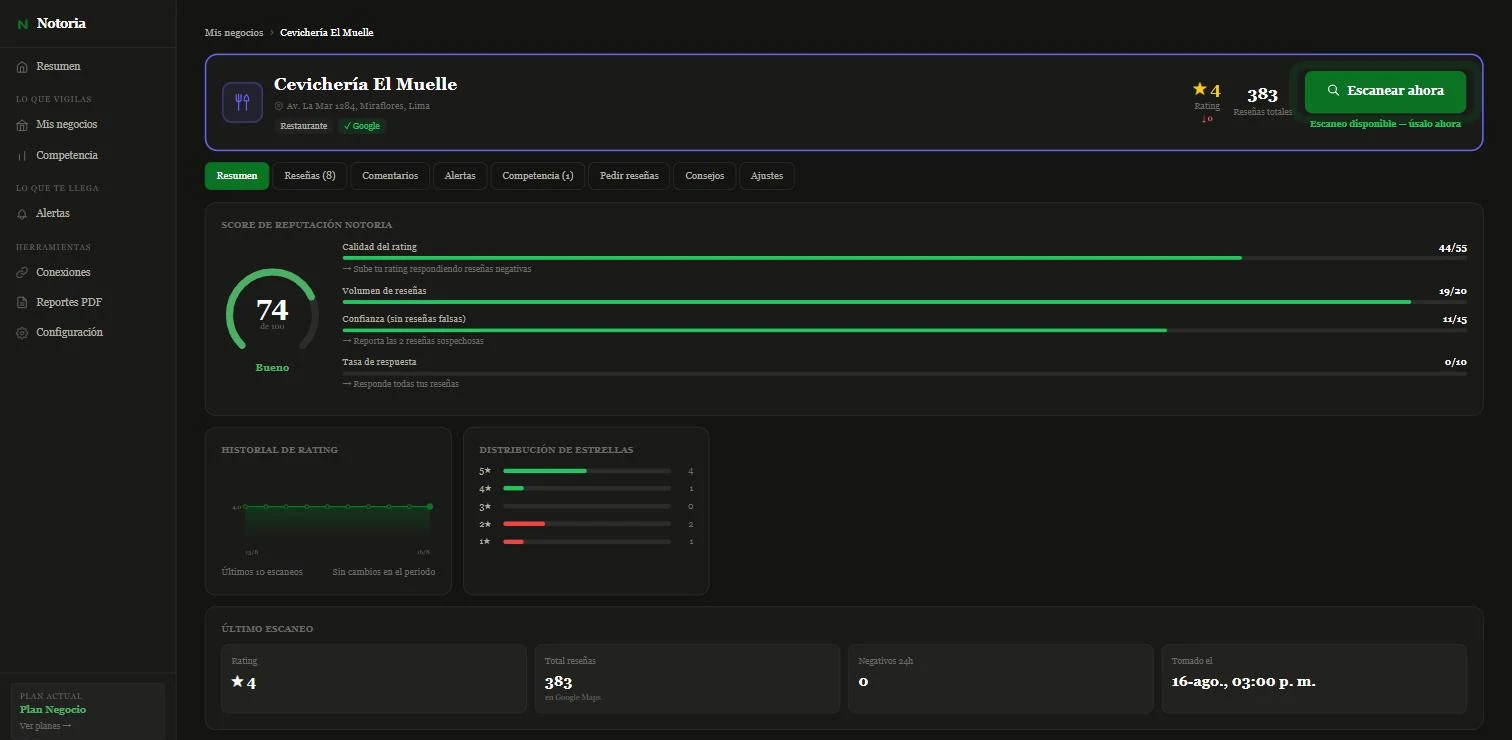
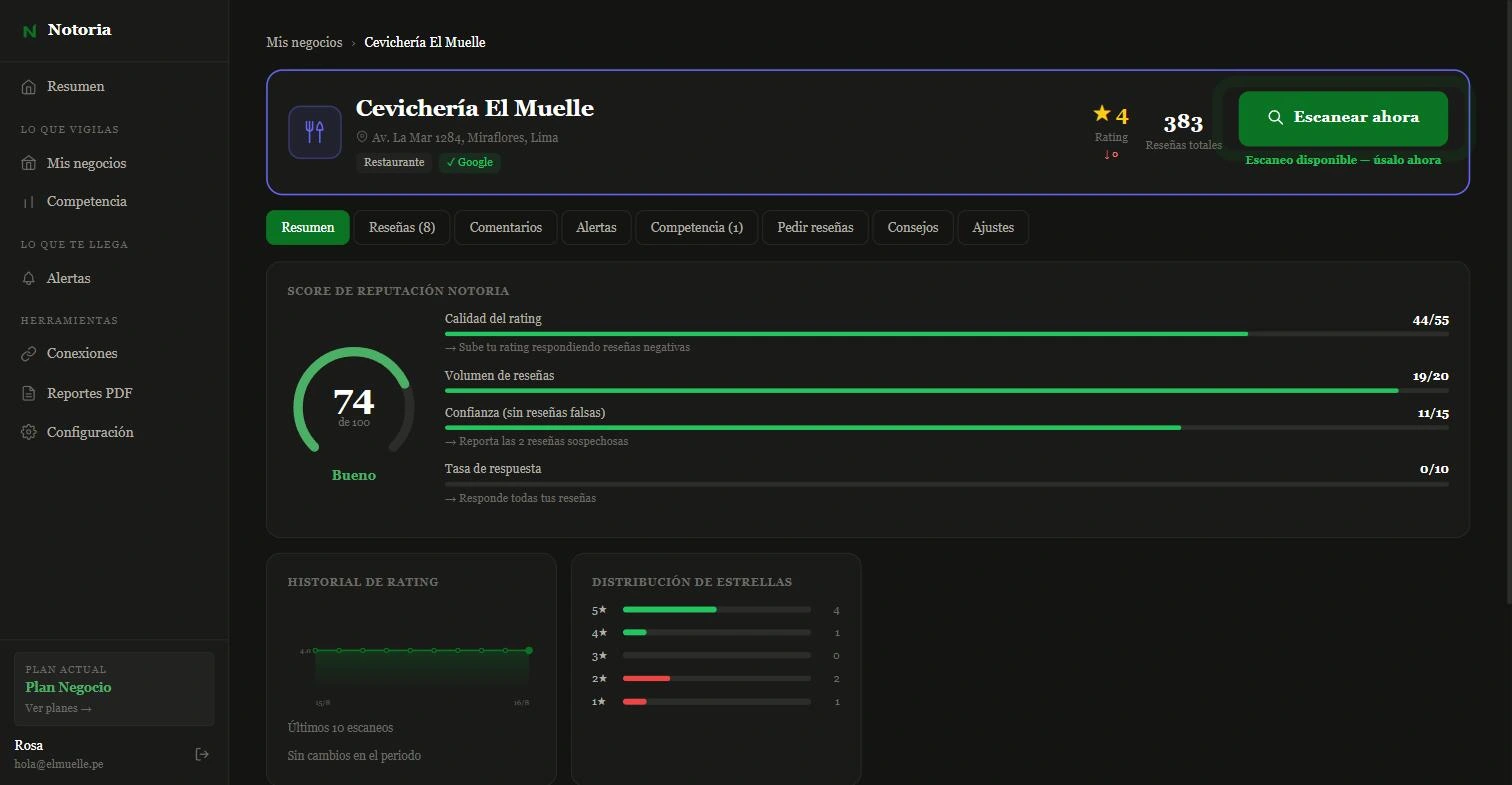
Subir la resolucion de las capturas del panel
Salian blandas por dos motivos que se suman: el capturador devuelve 1512 px de
un viewport de 1920 (ya reduce a 0.79x antes de tocar nada), y el marco las
mostraba a 1010 px, lo que deja 1.5 px de imagen por pixel CSS cuando una
pantalla retina pide 2.

Se recapturaron con zoom 1.3 en el panel, que da ~30% mas detalle real sin
salirse del encuadre, y el marco se limito a 900 px, que sube la densidad a
1.68. Queda escrito el procedimiento para cuando haya que rehacerlas.

diff --git a/brand-shield-web/src/components/PanelShowcase.js b/brand-shield-web/src/components/PanelShowcase.js
@@ -21,30 +21,30 @@ import { useState } from 'react';
 
 const VISTAS = {
   es: [
-    { id:'resumen', pestana:'Resumen', img:'/panel/panel-resumen.webp', w:1512, h:380,
+    { id:'resumen', pestana:'Resumen', img:'/panel/panel-resumen.webp', w:1512, h:482,
       titulo:'Todo bajo control en una pantalla',
       desc:'Negocios activos, alertas sin leer y el estado general. Si algo necesita tu atención, lo ves al entrar.' },
-    { id:'score', pestana:'Tu negocio', img:'/panel/panel-score.webp', w:1512, h:740,
+    { id:'score', pestana:'Tu negocio', img:'/panel/panel-score.webp', w:1512, h:785,
       titulo:'Un solo número, y qué hacer para subirlo',
       desc:'El score desglosa de dónde sale cada punto y te dice el siguiente paso concreto: responde estas reseñas, reporta estas otras.' },
     { id:'resenas', pestana:'Reseñas', img:'/panel/panel-resenas.webp', w:1512, h:785,
       titulo:'La sospechosa viene marcada, y con el motivo',
       desc:'Cada reseña con su calificación y su fecha. Las que tienen patrón de ataque salen señaladas y con el botón para reportarlas a Google.' },
-    { id:'competencia', pestana:'Competencia', img:'/panel/panel-competencia.webp', w:1512, h:350,
+    { id:'competencia', pestana:'Competencia', img:'/panel/panel-competencia.webp', w:1512, h:452,
       titulo:'Cuánto te gana el de la esquina',
       desc:'Tu rating al lado del suyo, con la diferencia exacta. Y el análisis de IA de en qué fallan ellos.' },
   ],
   en: [
-    { id:'resumen', pestana:'Overview', img:'/panel/panel-resumen.webp', w:1512, h:380,
+    { id:'resumen', pestana:'Overview', img:'/panel/panel-resumen.webp', w:1512, h:482,
       titulo:'Everything under control on one screen',
       desc:'Active businesses, unread alerts and overall status. If something needs you, you see it the moment you log in.' },
-    { id:'score', pestana:'Your business', img:'/panel/panel-score.webp', w:1512, h:740,
+    { id:'score', pestana:'Your business', img:'/panel/panel-score.webp', w:1512, h:785,
       titulo:'One number, and how to raise it',
       desc:'The score breaks down where every point comes from and tells you the concrete next step: reply to these reviews, report those.' },
     { id:'resenas', pestana:'Reviews', img:'/panel/panel-resenas.webp', w:1512, h:785,
       titulo:'Suspicious ones come flagged, with the reason',
       desc:'Every review with its rating and date. The ones showing attack patterns are marked, with the button to report them to Google.' },
-    { id:'competencia', pestana:'Competitors', img:'/panel/panel-competencia.webp', w:1512, h:350,
+    { id:'competencia', pestana:'Competitors', img:'/panel/panel-competencia.webp', w:1512, h:452,
       titulo:'How far ahead the place next door is',
       desc:'Your rating next to theirs, with the exact gap. Plus the AI read on where they fall short.' },
   ],
@@ -92,8 +92,14 @@ export default function PanelShowcase({ idioma = 'es', colores }) {
       </div>
 
       {/* Marco de navegador. Es lo que hace que se lea como "una app de verdad"
-          y no como una imagen suelta pegada en la página. */}
-      <div style={{ background:C.surface, border:`1px solid ${C.border}`, borderRadius:12, overflow:'hidden' }}>
+          y no como una imagen suelta pegada en la página.
+
+          ⚠ El `maxWidth: 900` NO es capricho de diseño, es NITIDEZ. Las
+          capturas miden 1512 px de ancho; mostrarlas a los 1010 px que da la
+          columna dejaba 1.5 px de imagen por píxel CSS, y una pantalla retina
+          pide 2 — de ahí que se vieran blandas. A 900 px suben a 1.68. Si
+          alguien ensancha esto, hay que rehacer las capturas más grandes. */}
+      <div style={{ background:C.surface, border:`1px solid ${C.border}`, borderRadius:12, overflow:'hidden', maxWidth:900, margin:'0 auto' }}>
         <div style={{ display:'flex', alignItems:'center', gap:8, padding:'9px 14px', borderBottom:`1px solid ${C.border}`, background:C.surface2 }}>
           <span style={{ display:'flex', gap:5 }}>
             {['#ef4444', '#f59e0b', '#22c55e'].map((c) => (

diff --git a/CLAUDE.md b/CLAUDE.md
@@ -2647,6 +2647,11 @@ Dos cosas que costaron y conviene saber:
   cuatro, la caja reservaba el espacio de la más larga y dejaba un hueco enorme
   bajo las cortas.
 
+🔍 **NITIDEZ — cómo se recapturan si hace falta (aprendido a la fuerza).** Las primeras salieron blandas por DOS motivos que se suman:
+
+1. **El capturador del navegador devuelve imágenes de 1512 px de un viewport de 1920**, o sea que ya reduce a 0.79x antes de que toques nada. Se compensa poniendo  en **1.3** antes de capturar: el panel se renderiza más grande y cada píxel suyo ocupa 1.03 px de imagen en vez de 0.79 (~30% más detalle). Más de 1.4 no cabe en el encuadre.
+2. **El marco se muestra a , no al ancho de la columna.** A los 1010 px que daba la columna, una imagen de 1512 px deja 1.5 px por píxel CSS y una pantalla retina pide 2. A 900 px sube a 1.68. **Si alguien ensancha ese marco, hay que rehacer las capturas más grandes.**
+
 ⚠ **Limitación conocida:** las capturas están en **español**. Con el landing en
 inglés, el panel de la imagen sigue en español. Se asume (el mercado es Perú); si
 alguna vez pesa, hay que tomar un segundo juego con el panel en inglés y elegir
